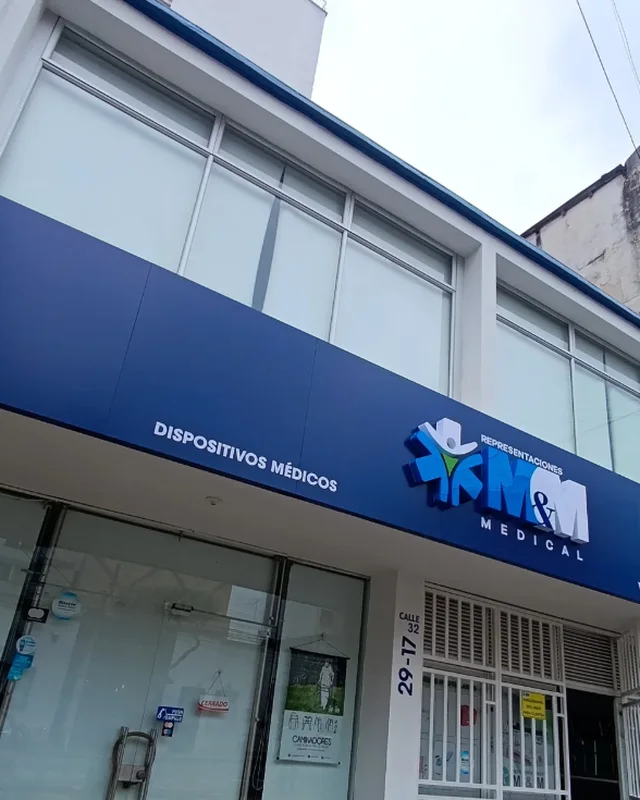
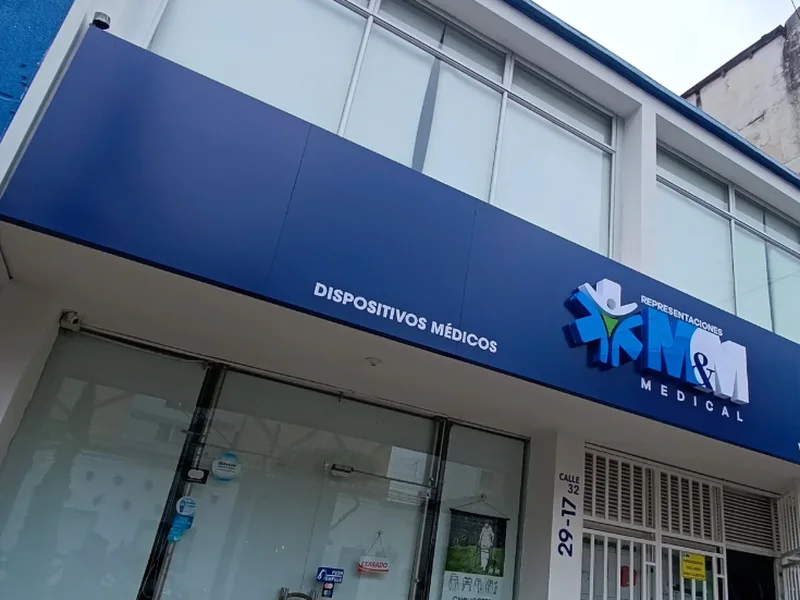
Cinta de trabajos solo con imágenes, en formato horizontal para no cortar los avisos
Claude-Session: https://claude.ai/code/session_01RjhXAHYwi6PEBZ43V5EdAY

diff --git a/src/sections/Featured.tsx b/src/sections/Featured.tsx
@@ -1,31 +1,24 @@
 const BASE = import.meta.env.BASE_URL;
 const IG = 'https://www.instagram.com';
 
-/** Trabajos destacados (fotos de public/carrusel, recortadas a 4:5) */
+/** Trabajos destacados (fotos de public/carrusel, en su mayoría horizontales para no cortar los avisos) */
 const SLIDES = [
-  { file: '01', post: '/p/C6FUIGONDhR/', alt: 'Fachada con letras iluminadas para Maemi Oficial' },
-  { file: '02', post: '/p/DLoG-D7x1el/', alt: 'Letras corpóreas de colores para +Vida' },
-  { file: '03', post: '/p/DDsAHiKPX0A/', alt: 'Catrina en neón flex multicolor' },
-  { file: '04', post: '/p/CTeugOyAexK/', alt: 'Aviso en acrílico para Bulldog Pet Shop' },
-  { file: '05', post: '/p/De92UvWiSOf/', alt: 'Frase en neón flex cálido para cafetería' },
-  { file: '06', post: '/p/Cf88loqurLl/', alt: 'Aviso luminoso para Best Movil' },
-  { file: '07', post: '/p/DTygU0JATHU/', alt: 'Fachada corporativa para M&M Medical' },
-  { file: '08', post: '/p/DIce-1xyseU/', alt: 'Aviso circular en acrílico para una birriería' },
-  { file: '09', post: '/p/DIcfztSSa3G/', alt: 'Letras luminosas para Buffalos Parrilla' },
-  { file: '10', post: '/p/DHdqhTBuZwJ/', alt: 'Letras doradas con luz para un spa de uñas' }
+  { file: '01', w: 800, h: 600, post: '/p/C6FUIGONDhR/', alt: 'Fachada con letras iluminadas para Maemi Oficial' },
+  { file: '02', w: 800, h: 600, post: '/p/DLoG-D7x1el/', alt: 'Letras corpóreas de colores para +Vida' },
+  { file: '03', w: 600, h: 600, post: '/p/DDsAHiKPX0A/', alt: 'Catrina en neón flex multicolor' },
+  { file: '04', w: 800, h: 600, post: '/p/CTeugOyAexK/', alt: 'Aviso en acrílico para Bulldog Pet Shop' },
+  { file: '05', w: 450, h: 600, post: '/p/De92UvWiSOf/', alt: 'Frase en neón flex cálido para cafetería' },
+  { file: '06', w: 800, h: 600, post: '/p/Cf88loqurLl/', alt: 'Aviso luminoso para Best Movil' },
+  { file: '07', w: 800, h: 600, post: '/p/DTygU0JATHU/', alt: 'Fachada corporativa para M&M Medical' },
+  { file: '08', w: 800, h: 600, post: '/p/DIce-1xyseU/', alt: 'Aviso circular en acrílico para una birriería' },
+  { file: '09', w: 800, h: 600, post: '/p/DIcfztSSa3G/', alt: 'Letras luminosas para Buffalos Parrilla' },
+  { file: '10', w: 800, h: 600, post: '/p/DHdqhTBuZwJ/', alt: 'Letras doradas con luz para un spa de uñas' }
 ];
 
 /** Cinta de fotos que avanza sola (igual que la de aliados, solo CSS). La lista va dos veces para que no tenga corte. */
 export default function Featured() {
   return (
     <section id="destacados" className="featured" aria-label="Trabajos destacados de Kano Publicidad">
-      <div className="wrap featured__head">
-        <span className="tag">Trabajos destacados</span>
-        <p className="featured__title">
-          Avisos que ya <span className="accent">iluminan</span> Santander
-        </p>
-      </div>
-
       <div className="featured__marquee">
         <div className="featured__track">
           {[...SLIDES, ...SLIDES].map((s, i) => {
@@ -34,6 +27,7 @@ export default function Featured() {
               <a
                 key={`${s.file}-${i}`}
                 className="featured__item"
+                style={{ aspectRatio: `${s.w} / ${s.h}` }}
                 href={`${IG}${s.post}`}
                 target="_blank"
                 rel="noopener noreferrer"
@@ -43,8 +37,8 @@ export default function Featured() {
                 <img
                   src={`${BASE}carrusel/trabajo-${s.file}.webp`}
                   alt={copy ? '' : `${s.alt}, hecho por Kano Publicidad en Bucaramanga`}
-                  width={640}
-                  height={800}
+                  width={s.w}
+                  height={s.h}
                   loading={i < 5 ? 'eager' : 'lazy'}
                   decoding="async"
                 />

diff --git a/src/styles.css b/src/styles.css
@@ -421,8 +421,8 @@ section { padding: 110px 0; position: relative; }
 
 /* ---------- cinta de trabajos destacados (primera sección) ---------- */
 .featured {
-  padding: calc(var(--nav-h) + 28px) 0 50px; overflow: hidden;
-  background: linear-gradient(180deg, var(--navy-deep), var(--ink));
+  padding: var(--nav-h) 0 0; overflow: hidden;
+  background: var(--ink);
 }
 .featured__head { margin-bottom: 26px; }
 .featured__title {
@@ -432,12 +432,11 @@ section { padding: 110px 0; position: relative; }
 .featured__marquee { overflow: hidden; }
 .featured__track { display: flex; gap: 6px; width: max-content; animation: marquee 60s linear infinite; }
 .featured__marquee:hover .featured__track { animation-play-state: paused; }
-.featured__item { flex: none; display: block; height: clamp(300px, 34vw, 460px); aspect-ratio: 4 / 5; }
+.featured__item { flex: none; display: block; height: clamp(240px, 30vw, 420px); }
 .featured__item img { width: 100%; height: 100%; object-fit: cover; display: block; transition: filter var(--dur); }
 .featured__item:hover img { filter: brightness(1.12); }
 @media (max-width: 640px) {
-  .featured { padding-top: calc(var(--nav-h) + 18px); }
-  .featured__item { height: 300px; }
+  .featured__item { height: 240px; }
   .featured__track { animation-duration: 45s; }
   .hero { min-height: auto; padding: 70px 0; }
 }
